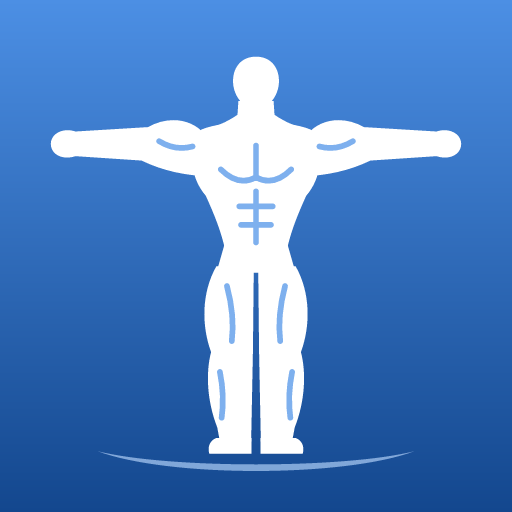
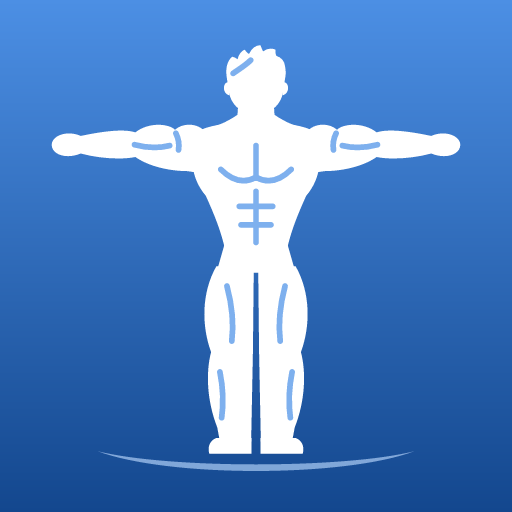
イラストの人：腕に筋肉の起伏、頭を角ばった輪郭と短髪に
- 肩の丸み → 力こぶ → ひじのくびれ → 前腕のふくらみ → 手首、下側に二の腕のふくらみ
- 卵形の頭をやめ、あごに角のある輪郭・耳・ツンツンした短髪・片側に流した前髪に

Changed region(s): [[0.625, 0.2188, 0.9062, 0.3438], [0.0938, 0.2188, 0.375, 0.3438], [0.4375, 0.0938, 0.5625, 0.2188]]

diff --git a/src/illustrations/shapes.ts b/src/illustrations/shapes.ts
@@ -14,19 +14,26 @@ function mirror(d: string) {
 }
 
 const leftArm =
-  // 肩 → 控えめな力こぶ → ひじ → 長めの前腕 → こぶし → 腕の下側 → わきの下
-  'M38.5 22.2 C35.5 18.4 30 17.8 25.5 20.4 L9 21.4 C6 20.4 3.4 22 3.4 24.2 C3.4 26.6 6 28 9 27 L24 28 C29 30.4 34 31.4 39.5 31.6 Z';
+  // 上側：肩の丸み → 力こぶ（二頭筋）→ ひじで細く → 前腕のふくらみ → 手首で細く → こぶし
+  // 下側：手首 → 前腕のふくらみ → ひじ → 二の腕（三頭筋）のふくらみ → わきの下
+  'M38.5 21.6 C37.2 19.6 33.6 19.2 31.6 21 C30.2 19.6 25.6 19.2 22.6 21.6 C20.2 20.8 16 21.2 10.2 22.4 ' +
+  'C7 21 3.6 22.4 3.6 24.4 C3.6 26.6 6.8 27.8 10.2 26.4 C14.6 27.6 19.6 27.8 22.6 27.2 C26.4 29.8 31.6 30.4 34.4 30.4 C36.4 30.6 38.2 31.2 39.5 31.6 Z';
+const leftEar = 'M43.9 10.2 C42.4 10 42.2 12.8 44 13.2 Z';
 const leftLeg =
   // 引き締まった太もも → ひざで細く → ふくらはぎ → 足首。脚は長め
   'M41 52 C37.6 58 37.6 65.5 39.8 71.5 C38.6 76 38.8 82.5 41.2 88.6 L41.8 91.8 L48.9 91.8 L49.3 71.5 L49.5 52 Z';
 const leftFoot = 'M41 91 L49 91 L49 94.6 L39.4 94.6 C38.9 93 39.6 91.5 41 91 Z';
 
-/** 細マッチョの人（T の字のポーズ：両腕を真横に広げる）。頭は小さめ、腕と脚は長め */
+/** 細マッチョの人（T の字のポーズ：両腕を真横に広げる）。頭は小さめで角ばった輪郭、腕と脚は長め */
 export const MUSCLE_MAN = {
   /** 体のシルエット（塗りつぶし） */
   body: [
-    // 頭（あごが少しとがった卵形）
-    'M50 4.4 C53.6 4.4 55.4 7.2 55.2 10.4 C55 13.4 53 16 50 16.6 C47 16 45 13.4 44.8 10.4 C44.6 7.2 46.4 4.4 50 4.4 Z',
+    // 頭：てっぺんはツンツンした短髪、あごに角のあるがっしりした輪郭。と耳
+    'M43.4 9.4 C43 7.2 43.4 5.4 44.6 4.4 Q45.4 4.6 45.8 5 Q46.2 3.4 47.4 2.8 Q48 3.6 48.4 3.8 Q49.4 1.8 51 1.8 ' +
+      'Q51.4 2.8 51.6 3.2 Q53 2.2 54.4 2.8 Q54.4 3.8 54.6 4.2 Q56.4 4.8 56.6 6.6 C56.8 7.6 56.8 8.6 56.6 9.4 ' +
+      'L56.2 12 C56 14 55 15.6 53.4 16.6 C52.4 17.2 51.2 17.6 50 17.6 C48.8 17.6 47.6 17.2 46.6 16.6 C45 15.6 44 14 43.8 12 Z',
+    leftEar,
+    mirror(leftEar),
     // 首と、首から肩へのなだらかな盛り上がり
     'M46 14.5 L54 14.5 L54.2 17.6 C56.8 19.4 59.4 20.4 62.6 21.2 L37.4 21.2 C40.6 20.4 43.2 19.4 45.8 17.6 Z',
     // 胴体（ほどよい逆三角形）
@@ -42,6 +49,13 @@ export const MUSCLE_MAN = {
   ],
   /** 筋肉のすじ（背景色に近い色の線で描く） */
   lines: [
+    // 片側に流した前髪
+    'M44.8 8.2 C46.2 7.2 47.6 6.4 48.8 5.2',
+    // 肩と腕の筋肉の境目
+    'M31.8 21.8 C32.4 23 32.6 24.4 32.4 25.6',
+    mirror('M31.8 21.8 C32.4 23 32.6 24.4 32.4 25.6'),
+    'M22.4 24.4 C25.4 25.2 28 25.2 30.4 24.6',
+    mirror('M22.4 24.4 C25.4 25.2 28 25.2 30.4 24.6'),
     // 胸
     'M50 24.6 L50 32',
     'M42 30 C45 33 47.8 33 50 31.8 C52.2 33 55 33 58 30',
@@ -49,9 +63,6 @@ export const MUSCLE_MAN = {
     'M50 35 L50 46.6',
     'M46.2 38.4 L53.8 38.4',
     'M46.6 42.6 L53.4 42.6',
-    // 力こぶ
-    'M28 23.6 C30.6 25.2 33.4 25.4 35.6 24.8',
-    mirror('M28 23.6 C30.6 25.2 33.4 25.4 35.6 24.8'),
     // 太もも
     'M43.4 56.5 C44.6 61 45 65 44.5 69',
     mirror('M43.4 56.5 C44.6 61 45 65 44.5 69'),
